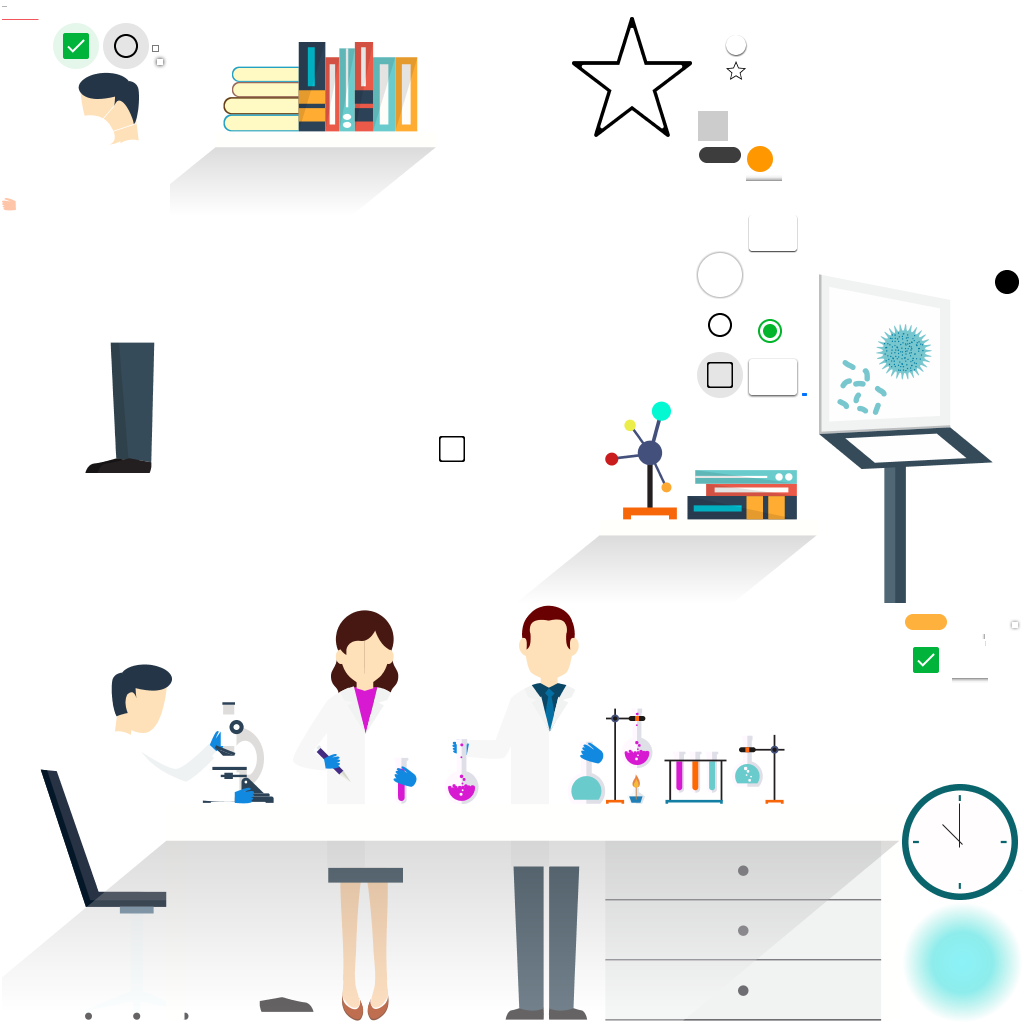
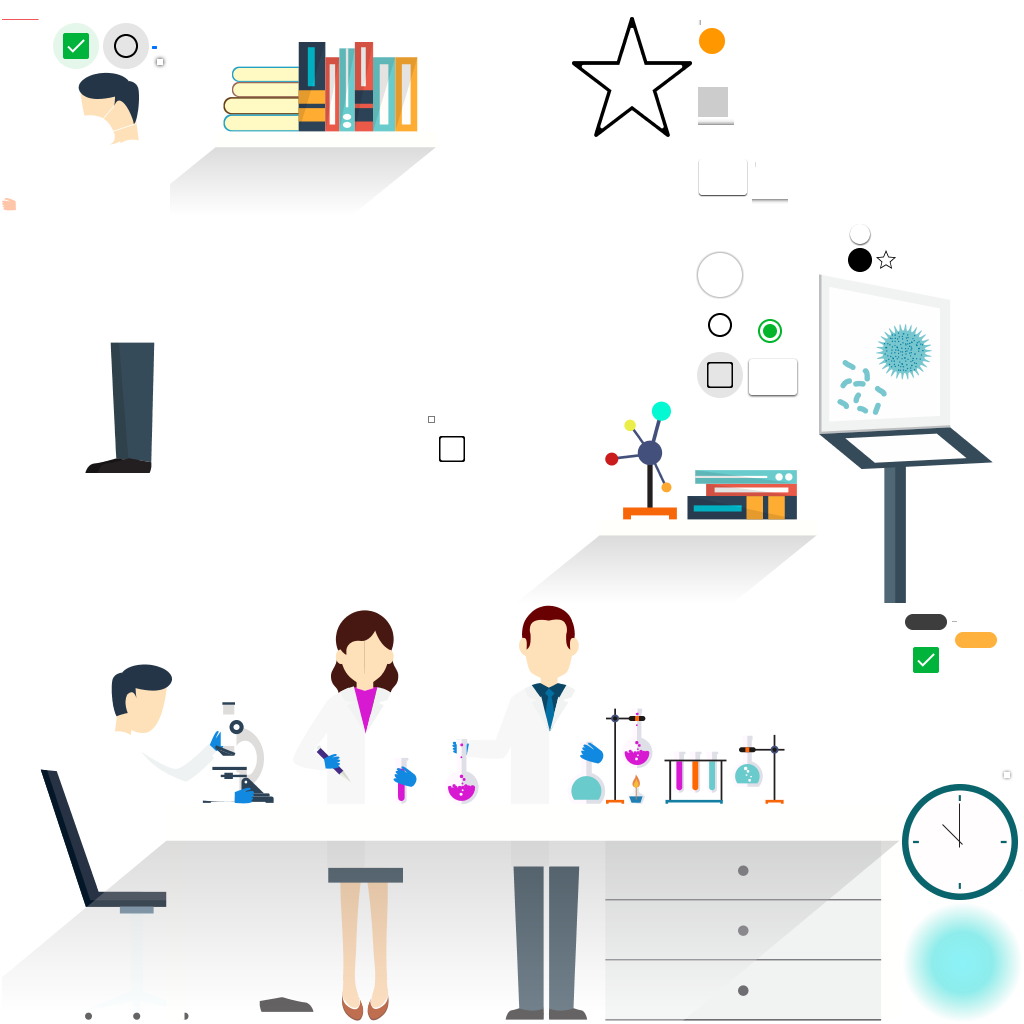
Play course as circle button (material design)

diff --git a/core/src/es/eucm/cytochallenge/view/widgets/TopToolbarLayout.java b/core/src/es/eucm/cytochallenge/view/widgets/TopToolbarLayout.java
@@ -1,6 +1,7 @@
 package es.eucm.cytochallenge.view.widgets;
 
 import com.badlogic.gdx.scenes.scene2d.Actor;
+import com.badlogic.gdx.scenes.scene2d.ui.Button;
 import com.badlogic.gdx.scenes.scene2d.ui.Table;
 import com.badlogic.gdx.scenes.scene2d.utils.Drawable;
 import es.eucm.cytochallenge.view.widgets.AbstractWidget;
@@ -10,6 +11,7 @@ public class TopToolbarLayout extends AbstractWidget {
 
     private Table topToolbar;
     private Actor container;
+    private Actor check;
 
     @Override
     public void layout() {
@@ -28,6 +30,12 @@ public class TopToolbarLayout extends AbstractWidget {
 
         setBounds(container, 0, 0,
                 getWidth(), getHeight() - height);
+
+        if(check != null) {
+            float offset = es.eucm.cytochallenge.view.widgets.WidgetBuilder.dpToPixels(16);
+            setBounds(check, getWidth() - getPrefWidth(check) - offset, offset,
+                    getPrefWidth(check), getPrefHeight(check));
+        }
     }
 
     public void setTopToolbar(Table topToolbar) {
@@ -38,6 +46,11 @@ public class TopToolbarLayout extends AbstractWidget {
     public void setContainer(Actor container) {
         this.container = container;
         addActorAt(0, container);
+    }
+
+    public void setCheckButton(Button checkButton) {
+        this.check = checkButton;
+        addActor(checkButton);
     }
 
     public Actor getContainer() {

diff --git a/core/src/es/eucm/cytochallenge/view/screens/ChallengeList.java b/core/src/es/eucm/cytochallenge/view/screens/ChallengeList.java
@@ -71,13 +71,15 @@ public class ChallengeList extends BaseScreen {
         });
 
 
-        Button play = es.eucm.cytochallenge.view.widgets.WidgetBuilder.toolbarIcon(SkinConstants.IC_PLAY);
+        Button play = es.eucm.cytochallenge.view.widgets.WidgetBuilder.circleButton(SkinConstants.IC_PLAY);
         play.addListener(new ClickListener() {
             @Override
             public void clicked(InputEvent event, float x, float y) {
                 playCourse();
             }
         });
+        float dpSpace = WidgetBuilder.dpToPixels(6f);
+        play.setPosition(Gdx.graphics.getWidth() - play.getWidth() - dpSpace, dpSpace);
 
         courseInfo = es.eucm.cytochallenge.view.widgets.WidgetBuilder.toolbarIcon(SkinConstants.IC_ERROR);
         courseInfo.addListener(new ClickListener() {
@@ -93,11 +95,11 @@ public class ChallengeList extends BaseScreen {
         topTable.add(title)
                 .expandX();
         topTable.add(courseInfo);
-        topTable.add(play);
 
         TopToolbarLayout rootLayout = new TopToolbarLayout();
         rootLayout.setTopToolbar(topTable);
         rootLayout.setContainer(scroll);
+        rootLayout.setCheckButton(play);
 
         root.add(rootLayout).expand().fill();
     }

diff --git a/core/src/es/eucm/cytochallenge/view/widgets/WidgetBuilder.java b/core/src/es/eucm/cytochallenge/view/widgets/WidgetBuilder.java
@@ -76,7 +76,7 @@ public class WidgetBuilder {
         imageButtonStyle.imageUp = BaseScreen.skin.getDrawable(SkinConstants.IC_PLAY);
         ImageButton imageButton = new ImageButton(imageButtonStyle);
         imageButton.getImage().setScaling(Scaling.none);
-        imageButton.setName(SkinConstants.IC_PLAY);
+        imageButton.setName(SkinConstants.IC_PLAY_BIG);
         return imageButton;
     }
 

diff --git a/core/src/es/eucm/cytochallenge/view/SkinConstants.java b/core/src/es/eucm/cytochallenge/view/SkinConstants.java
@@ -75,6 +75,7 @@ public interface SkinConstants {
     String IC_ERROR = "ic_error";
     String IC_SETTINGS = "ic_settings";
     String IC_PLAY = "ic_play";
+    String IC_PLAY_BIG = "ic_play_big";
     String IC_CELL_WITH_RECEPTORS = "ic_cell_with_receptors";
     String IC_REPLAY = "ic_replay";
     String IC_FIT = "ic_fit";
